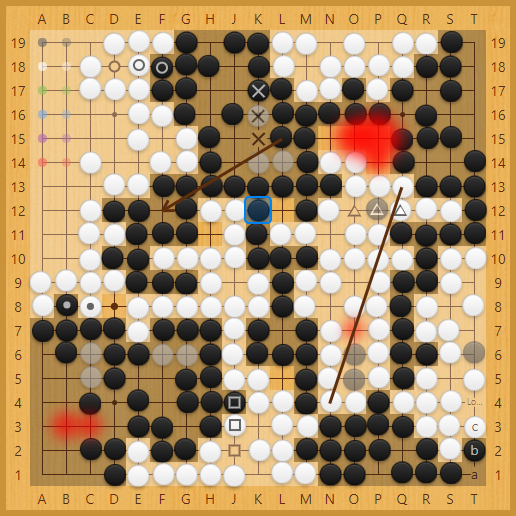
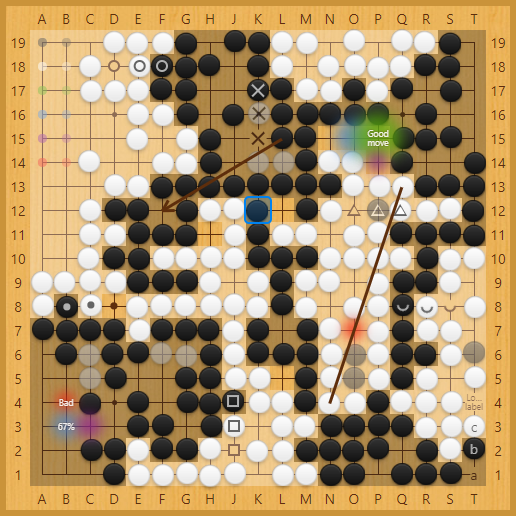
Update screenshot

diff --git a/demo/main.js b/demo/main.js
@@ -71,7 +71,7 @@ const heatMap = (() => {
         [_,_,_,_,_,_,_,_,_,_,_,_,_,_,_,_,_,_,_],
         [_,_,_,_,_,_,_,_,_,_,_,_,_,_,_,_,_,_,_],
         [_,O(1, 'Bad'),_,_,_,_,_,_,_,_,_,_,_,_,_,_,_,_,_],
-        [_,O(5, '67%\n1234'),O(4),_,_,_,_,_,_,_,_,_,_,_,_,_,_,_,_],
+        [_,O(5, '67%'),O(4),_,_,_,_,_,_,_,_,_,_,_,_,_,_,_,_],
         [_,_,_,_,_,_,_,_,_,_,_,_,_,_,_,_,_,_,_],
         [_,_,_,_,_,_,_,_,_,_,_,_,_,_,_,_,_,_,_]
     ]
